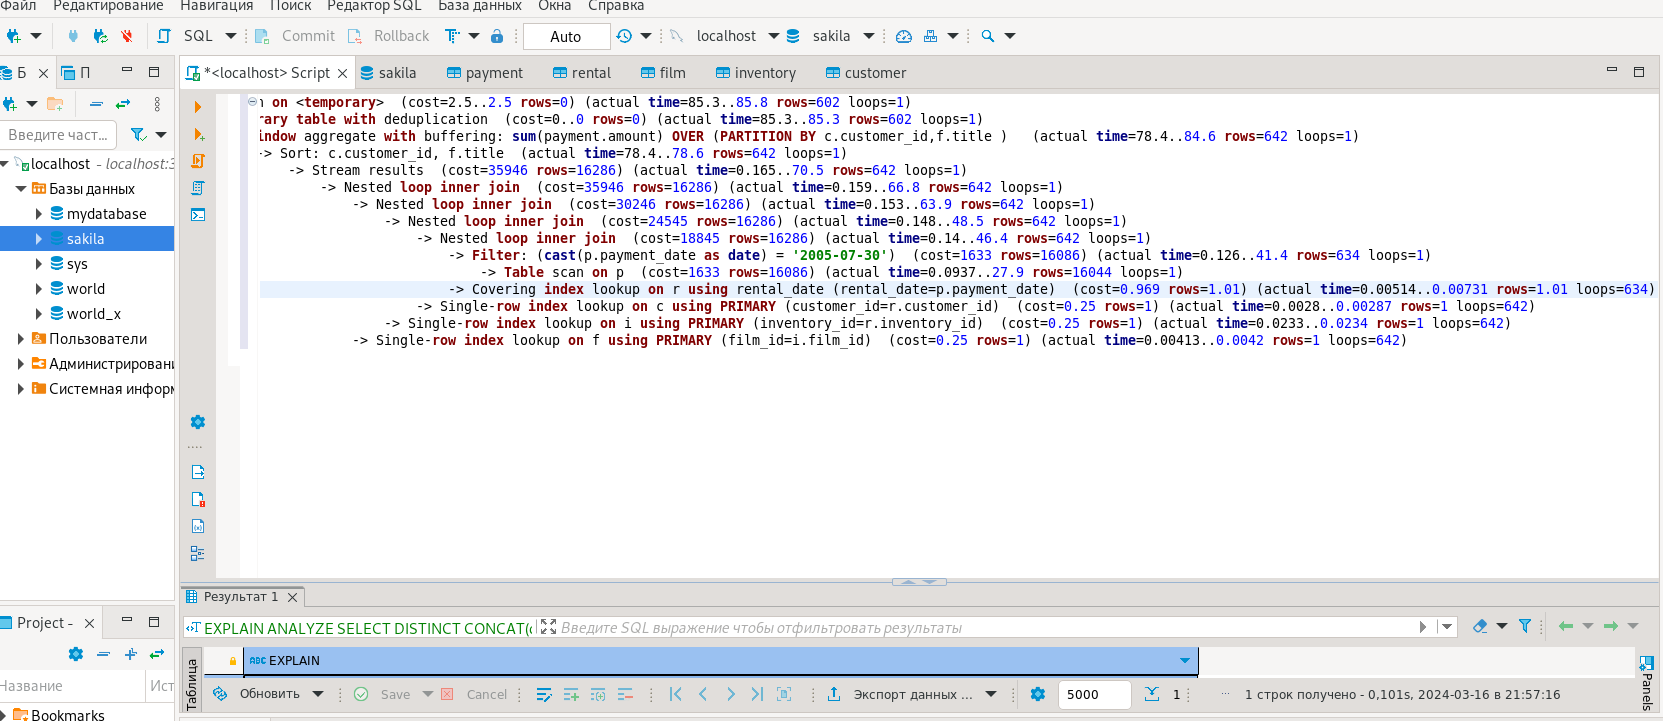
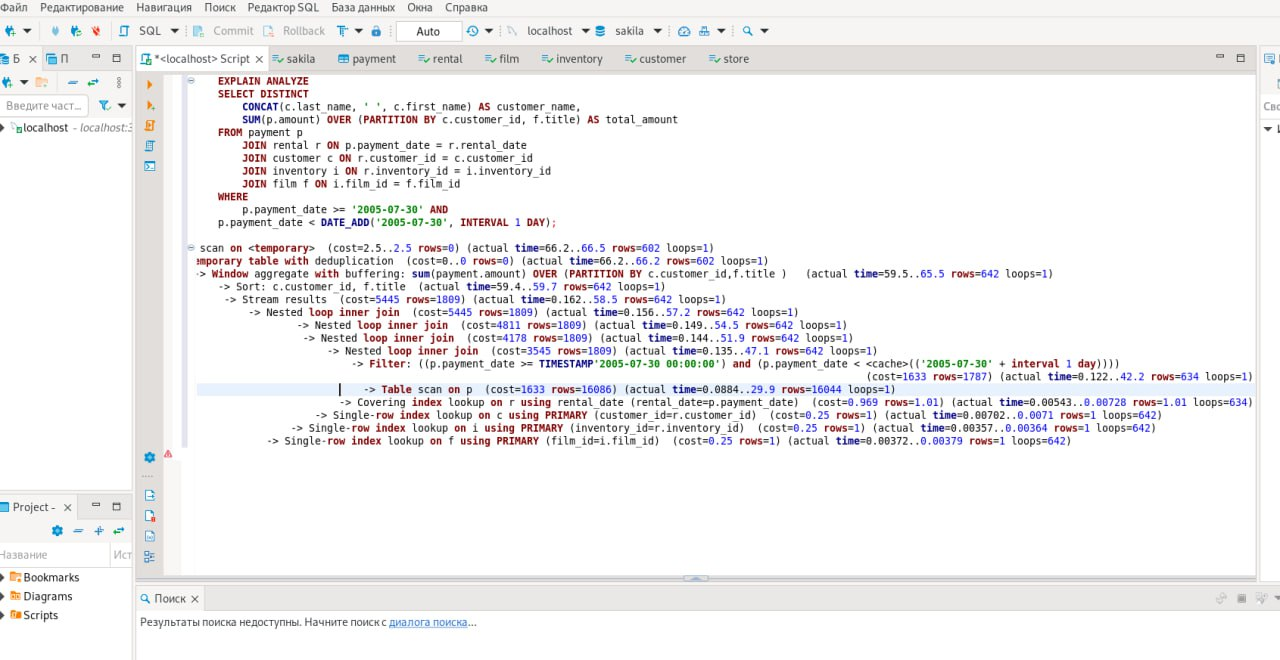
drbtk

diff --git a/README.md b/README.md
@@ -58,4 +58,8 @@ CREATE INDEX idx_film_id ON inventory (film_id);
 <br/>
 
 ![Скриншот к заданию 3](https://github.com/SoReX48/12-05.md/blob/main/Индексы/3.png)
+
+<br/>
+##### По доработке:
+
 ![Скриншот к заданию 4](https://github.com/SoReX48/12-05.md/blob/main/Индексы/4.png)
